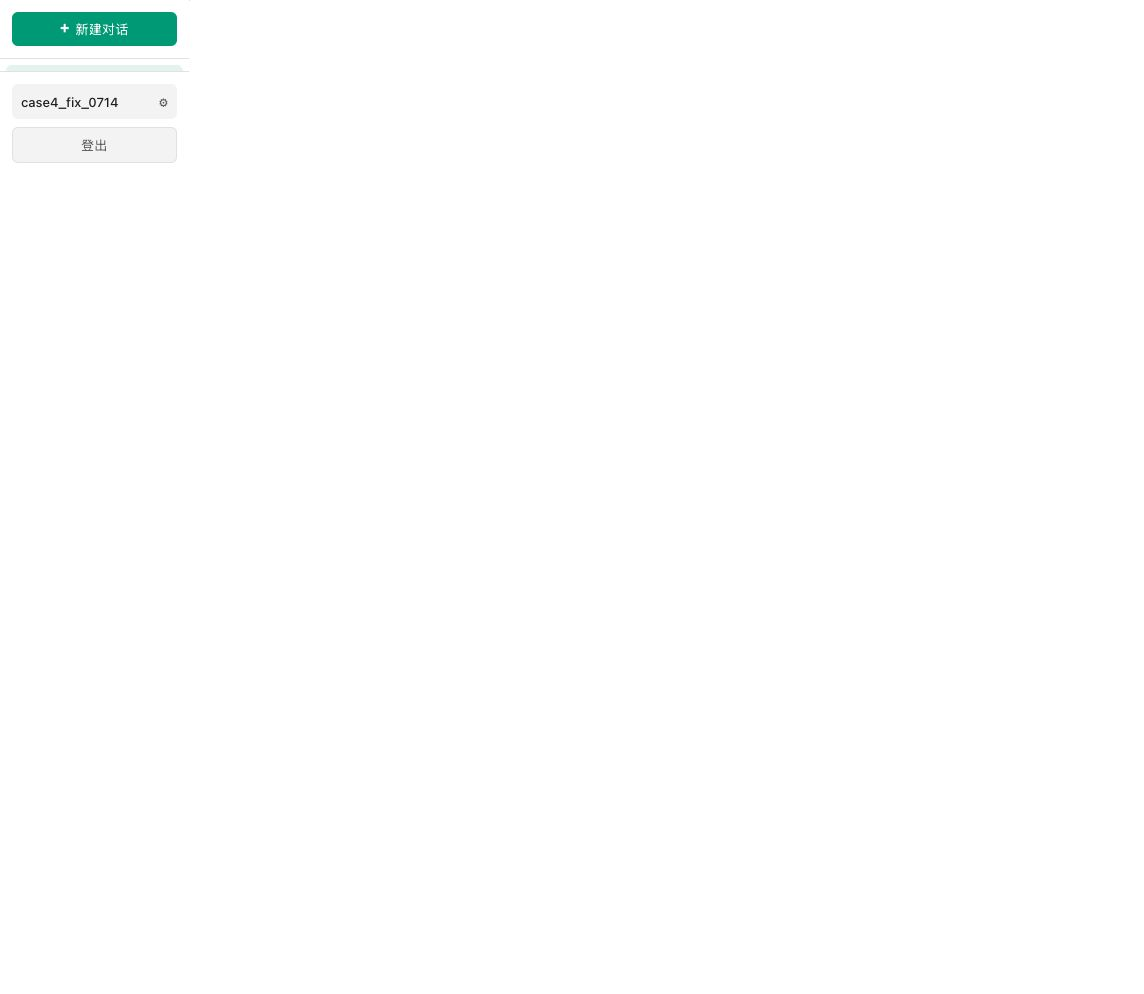
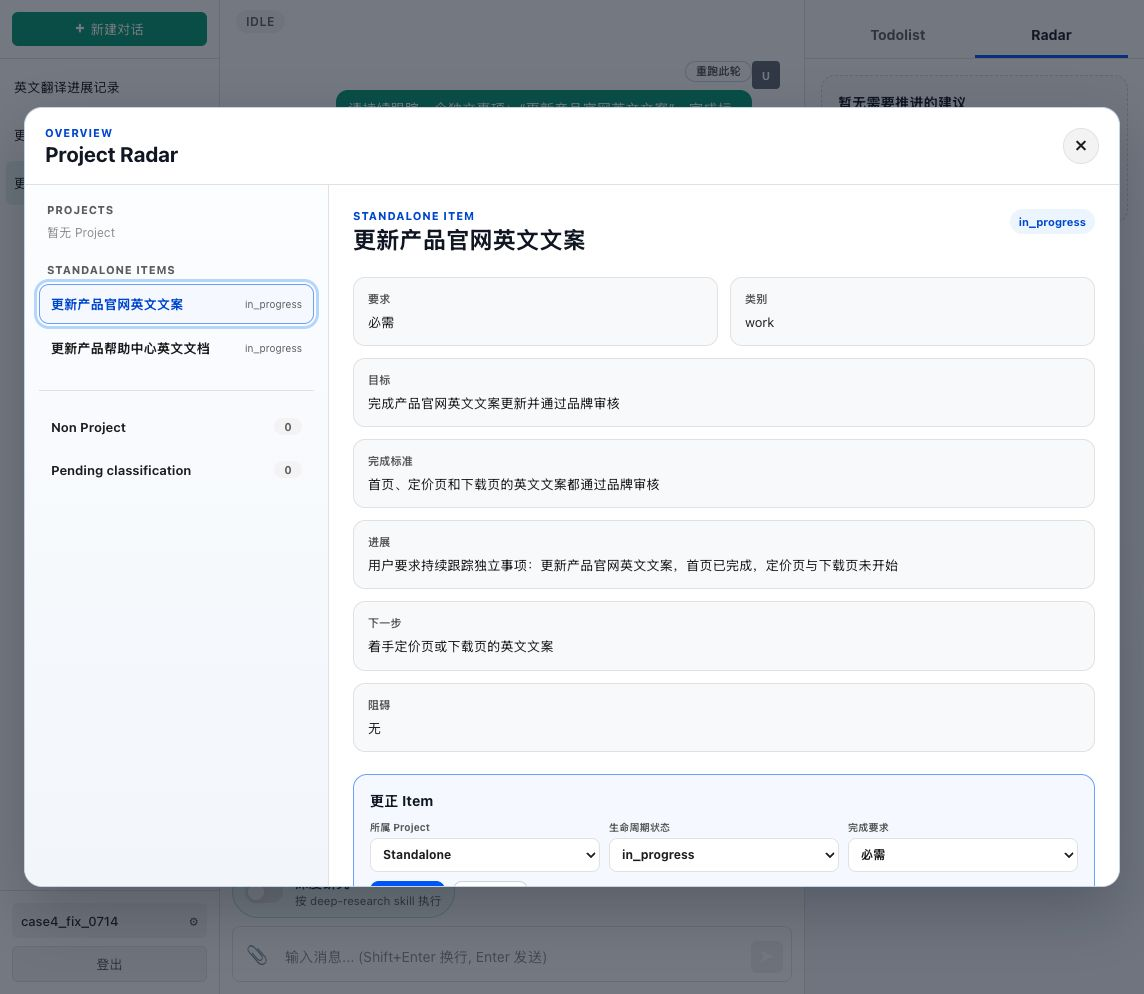
docs: refresh Project Radar snapshot

diff --git a/public/content/raw/Case 实测/Case1跨会话项目实测.md b/public/content/raw/Case 实测/Case1跨会话项目实测.md
@@ -8,11 +8,11 @@
 
 [返回文档总览](../README.md) · [返回演示案例](../演示案例.md)
 
-### 2.1 2026-07-14 浏览器复测
+## 1. 2026-07-14 浏览器复测
 
 本轮使用全新账号 `case1_fix_0714`，完全通过浏览器界面执行 Session A 两轮消息和 Session B 一轮消息，再检查 Project、Item、Event 与刷新后的持久化结果。所有截图均为完整页面截图。
 
-#### 1.1 复测结论
+### 1.1 复测结论
 
 | 检查项 | 实际结果 | 判定 |
 |---|---|---|
@@ -26,7 +26,7 @@
 
 本轮不能用来判定新代码失败。浏览器连接的后端进程启动于 **2026-07-14 11:16**，Project 聚合代码修改于 **19:30** 左右；运行进程没有加载本次修复。重启后端后，应重点重放 Session B，并检查 Project 的 `current_stage`、`progress_summary` 和 `risks` 是否同时吸收两个 Item。
 
-#### 1.2 空白基线与 Session A 第一轮
+### 1.2 空白基线与 Session A 第一轮
 
 新账号为空白状态。
 
@@ -48,7 +48,7 @@ Organizer 创建一个 SDK Project 和一个公开 API Item。
 
 ![首轮 Project 总览](../images/Case1复测/04-首轮Project总览.jpg)
 
-#### 1.3 Session A 第二轮
+### 1.3 Session A 第二轮
 
 输入正式 API 范围决策。
 
@@ -66,7 +66,7 @@ Project 没有重复创建，公开 API Item 进入 `in_progress`。
 
 ![API 事项与两条 Event](../images/Case1复测/08-API事项与两条Event.jpg)
 
-#### 1.4 Session B 跨会话更新
+### 1.4 Session B 跨会话更新
 
 新建 Session B。
 